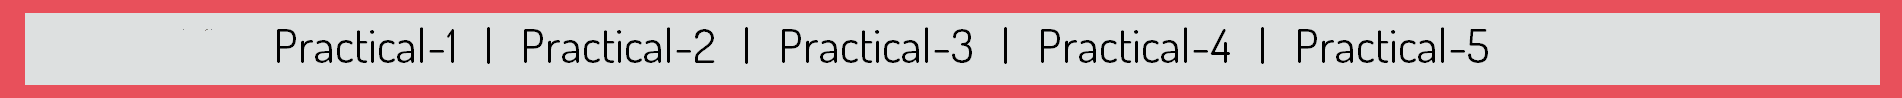
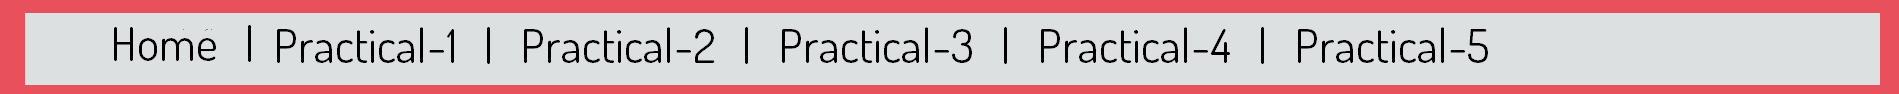
final changes

Changed region(s): [[0.0621, 0.2766, 0.8078, 0.6809], [0.0, 0.8511, 0.9942, 0.9149], [0.0, 0.1277, 0.9942, 0.1489]]

diff --git a/start/CSS/practical5.html b/start/CSS/practical5.html
@@ -37,6 +37,10 @@
 <body>
     <img src="../Images/yoooooooooooo.png" usemap="#map2">
     <map name="map2">
+        <!--Home-->
+        <area href="https://ashitaseth9454.github.io/FullStasckSite/start/index.html"
+        shape="poly"
+        coords="99,21, 232,21, 232,66, 98,66">
     <!--Practical-1-->
         <area href="https://ashitaseth9454.github.io/FullStasckSite/start/Practical1/practical1.html"
         shape="poly"
@@ -72,8 +76,8 @@
     <map name="map1">
     <!--HTML5 LOGO-->
         <area href="https://ashitaseth9454.github.io/FullStasckSite/start/CSS/html5.html"
-        shape="poly"
-        coords="20,9, 173,9, 173,167, 20,167">
+        shape="rect"
+        coords="20,10,171,164">
     <!--CSS LOGO-->
         <area href="https://ashitaseth9454.github.io/FullStasckSite/start/CSS/css3.html"
         shape="circle"
